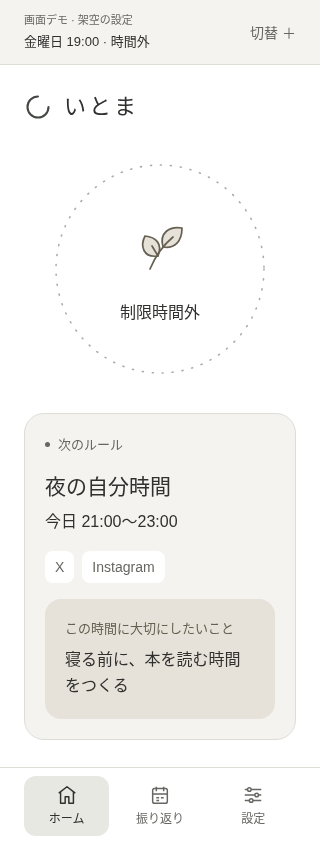
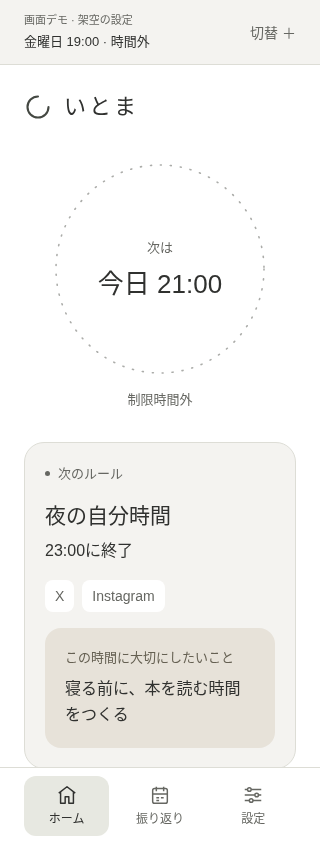
demo: show the next rule start inside the off-hours circle

diff --git a/demo/app/src/components/off-hours-circle.tsx b/demo/app/src/components/off-hours-circle.tsx
@@ -1,18 +1,24 @@
 import { useSyncExternalStore } from 'react';
 import { StyleSheet, Text, useWindowDimensions, View } from 'react-native';
-import Svg, { Circle, Path } from 'react-native-svg';
+import Svg, { Circle } from 'react-native-svg';
 import { useFlowTheme } from '@/components/flow/ui';
 
 const subscribe = () => () => {};
 const client = () => true;
 const server = () => false;
+type NextStart = { date: string; time: string };
 
-/** A static outline, never a progress fraction, loading spinner or time until next start. */
-export function OffHoursCircle() {
+/** A static outline with the next start, never progress or a countdown to that start. */
+export function OffHoursCircle({ next }: { next?: NextStart }) {
   const theme = useFlowTheme(), { fontScale, width } = useWindowDimensions();
   const hydrated = useSyncExternalStore(subscribe, client, server);
   const expanded = hydrated && fontScale > 1.5;
-  const label = <Text accessibilityRole="header" style={[styles.label, { color: theme.text }]}>制限時間外</Text>;
+  const copy = <View style={styles.copy}>
+    {next && <Text style={[styles.caption, { color: theme.muted }]}>次は</Text>}
+    <Text testID="next-start" accessibilityRole="header" style={[styles.time, next && next.date.length > 3 && styles.longDate, !next && styles.empty, { color: theme.text }]}>
+      {next ? `${next.date} ${next.time}` : '次の予定なし'}
+    </Text>
+  </View>;
   return <View testID="off-hours-circle" style={styles.group}>
     <View style={[styles.ring, hydrated && width <= 340 && styles.narrowRing]}>
       <View style={StyleSheet.absoluteFill} accessible={false} accessibilityElementsHidden importantForAccessibility="no-hide-descendants">
@@ -20,23 +26,18 @@ export function OffHoursCircle() {
           <Circle cx={112} cy={112} r={104} fill="none" stroke={theme.muted} strokeOpacity={0.55} strokeWidth={1.6} strokeDasharray="1 9" strokeLinecap="round" />
         </Svg>
       </View>
-      <View style={styles.center}>
-        <View testID="off-hours-motif" accessible={false} accessibilityElementsHidden importantForAccessibility="no-hide-descendants">
-          <Svg width={72} height={72} viewBox="0 0 72 72" aria-hidden fill="none" stroke={theme.purposeMotif} strokeWidth={1.7} strokeLinecap="round" strokeLinejoin="round">
-            <Path d="M34 42C19 44 16 32 21 22C32 23 39 30 34 42Z" fill={theme.purposeSurface} />
-            <Path d="M39 33C35 19 45 12 58 14C58 27 51 35 39 33Z" fill={theme.purposeSurface} />
-            <Path d="M26 55C31 43 37 33 49 23M28 32L34 42" />
-          </Svg>
-        </View>
-        {!expanded && label}
-      </View>
+      {!expanded && <View style={styles.center}>{copy}</View>}
     </View>
-    {expanded && label}
+    {expanded && copy}
+    <Text style={[styles.status, { color: theme.muted }]}>制限時間外</Text>
   </View>;
 }
 const styles = StyleSheet.create({
-  group: { alignItems: 'center', paddingVertical: 12, gap: 16 },
+  group: { alignItems: 'center', paddingVertical: 12, gap: 8 },
   ring: { width: 240, maxWidth: '100%', aspectRatio: 1 }, narrowRing: { width: 224 },
-  center: { position: 'absolute', inset: 24, alignItems: 'center', justifyContent: 'center', gap: 14 },
-  label: { fontSize: 16, lineHeight: 25, fontWeight: '400', textAlign: 'center', flexShrink: 1 },
+  center: { position: 'absolute', inset: 24, alignItems: 'center', justifyContent: 'center' },
+  copy: { alignItems: 'center', gap: 8, maxWidth: '100%' },
+  caption: { fontSize: 13, lineHeight: 21 }, status: { fontSize: 13, lineHeight: 21 },
+  time: { fontSize: 26, lineHeight: 36, fontWeight: '400', textAlign: 'center', fontVariant: ['tabular-nums'] },
+  longDate: { fontSize: 18, lineHeight: 28 }, empty: { fontSize: 20, lineHeight: 30 },
 });

diff --git a/demo/app/src/scenarios/home.ts b/demo/app/src/scenarios/home.ts
@@ -1,11 +1,11 @@
 /** Synthetic presentation fixtures, not a duplicate of the native schedule evaluator. */
 export const scenarios = [
-  { id: 'today', label: '今日の次の予定', clock: '金曜日 19:00', date: '今日', title: '夜の自分時間', time: '21:00〜23:00', apps: ['X', 'Instagram'], goal: '寝る前に、本を読む時間をつくる' },
-  { id: 'tomorrow', label: '翌日の予定', clock: '金曜日 23:30', date: '明日', title: '朝のひととき', time: '07:00〜08:00', apps: ['X', 'YouTube'], goal: '朝のコーヒーを、ゆっくり味わう' },
-  { id: 'next-week', label: '来週の予定', clock: '金曜日 23:30', date: '11月27日（金）', title: '夜の自分時間', time: '21:00〜23:00', apps: ['X', 'Instagram'], goal: '寝る前に、本を読む時間をつくる' },
-  { id: 'no-goal', label: '目標の登録なし', clock: '金曜日 19:00', date: '今日', title: '夜の自分時間', time: '21:00〜23:00', apps: ['X', 'Instagram'], goal: undefined },
-  { id: 'none', label: '次の予定なし', clock: '金曜日 23:30', date: undefined, title: undefined, time: undefined, apps: [], goal: undefined },
-  { id: 'active', label: '制限中と比較', clock: '金曜日 21:30', date: '今日', title: '夜の自分時間', time: '21:00〜23:00', apps: ['X', 'Instagram'], goal: '寝る前に、本を読む時間をつくる' },
+  { id: 'today', label: '今日の次の予定', clock: '金曜日 19:00', date: '今日', title: '夜の自分時間', startTime: '21:00', endTime: '23:00', apps: ['X', 'Instagram'], goal: '寝る前に、本を読む時間をつくる' },
+  { id: 'tomorrow', label: '翌日の予定', clock: '金曜日 23:30', date: '明日', title: '朝のひととき', startTime: '07:00', endTime: '08:00', apps: ['X', 'YouTube'], goal: '朝のコーヒーを、ゆっくり味わう' },
+  { id: 'next-week', label: '来週の予定', clock: '金曜日 23:30', date: '11月27日（金）', title: '夜の自分時間', startTime: '21:00', endTime: '23:00', apps: ['X', 'Instagram'], goal: '寝る前に、本を読む時間をつくる' },
+  { id: 'no-goal', label: '目標の登録なし', clock: '金曜日 19:00', date: '今日', title: '夜の自分時間', startTime: '21:00', endTime: '23:00', apps: ['X', 'Instagram'], goal: undefined },
+  { id: 'none', label: '次の予定なし', clock: '金曜日 23:30', date: undefined, title: undefined, startTime: undefined, endTime: undefined, apps: [], goal: undefined },
+  { id: 'active', label: '制限中と比較', clock: '金曜日 21:30', date: '今日', title: '夜の自分時間', startTime: '21:00', endTime: '23:00', apps: ['X', 'Instagram'], goal: '寝る前に、本を読む時間をつくる' },
 ] as const;
 export type ScenarioID = typeof scenarios[number]['id'];
 export const sampleNow = new Date(2026, 10, 20, 21, 30).getTime();

diff --git a/demo/app/src/components/home-preview.tsx b/demo/app/src/components/home-preview.tsx
@@ -25,17 +25,17 @@ export function HomePreview() {
         <View style={styles.appRow}><Body>X</Body><Body>Instagram</Body></View>
         <Text style={[styles.caption, { color: theme.muted }]}>制限中の表示比較です。解除操作は元のルール別デモで確認できます。</Text>
       </View> : <>
-        <OffHoursCircle />
+        <OffHoursCircle next={scenario.date && scenario.startTime ? { date: scenario.date, time: scenario.startTime } : undefined} />
         {scenario.title ? <View testID="next-rule" style={[styles.next, { backgroundColor: theme.background, borderColor: theme.line }]}>
           <View style={styles.nextLabel}><View style={[styles.dot, { backgroundColor: theme.muted }]} /><Text style={[styles.caption, { color: theme.muted }]}>次のルール</Text></View>
           <View style={{ gap: 6 }}><Text accessibilityRole="header" style={[styles.ruleTitle, { color: theme.text }]}>{scenario.title}</Text>
-            <Text style={[styles.ruleTime, { color: theme.text }]}>{scenario.date} {scenario.time}</Text></View>
+            <Text style={[styles.ruleTime, { color: theme.text }]}>{scenario.endTime}に終了</Text></View>
           <View style={styles.appRow}>{scenario.apps.map(name => <View key={name} style={[styles.app, { backgroundColor: theme.surface }]}>
             <Text style={{ color: theme.muted, fontSize: 14, lineHeight: 22 }}>{name}</Text>
           </View>)}</View>
           <RuleGoal goal={scenario.goal} />
         </View> : <View testID="no-next-rule" style={[styles.next, { backgroundColor: theme.background, borderColor: theme.line }]}>
-          <Heading>次の予定はありません</Heading><Body muted>設定したルールは、設定タブで確認できます。</Body>
+          <Heading>ルールの設定</Heading><Body muted>設定したルールは、設定タブで確認できます。</Body>
           <Button secondary label="ルールを確認する" onPress={() => router.navigate('/settings')} />
         </View>}
       </>}

diff --git a/demo/README.md b/demo/README.md
@@ -5,11 +5,11 @@
 ## 画面設計
 
 - 本人指定を優先し、時間外でもサークルを残す。直径240、円弧の線幅1.6、`1 9`の点線、muted色の55%。回転・点滅・次の開始までの進捗は加えない。
-- 中央は時間帯に依存しない葉の線画と、小さな「制限時間外」の1行だけ。説明の重複を外し、余白を主役にする。色や線画だけで意味を伝えない。点線は補助的な装飾であり、その低いコントラストに情報を依存しない。
-- 情報順はブランド→現在の状態→次のルール1つ。次のルールには日時・対象アプリ・本人の目標。今日の一覧、成果、キャラクター、未合意の手動開始は置かない。
+- 中央は「次は / 今日 21:00」の次回開始日時。翌日なら「明日 07:00」、予定なしなら「次の予定なし」。イラスト・その生成/選択機構は置かず、既存の予定を示す。円外の小さな「制限時間外」と点線で現在状態を区別する。点線は補助的な装飾であり、その低いコントラストに情報を依存しない。
+- 情報順はブランド→現在の状態→次のルール1つ。次のルールのカードには名前・終了時刻・対象アプリ・本人の目標を置く。開始日時は円内に集約し、カードに重ねない。今日の一覧、成果、キャラクター、未合意の手動開始は置かない。
 - 今日・明日・来週の次の予定を表示。これは日付解決ロジックの複製ではなく、native側が次区間を確定した後の表示を想定する固定fixture。翌日以降を出せない現デモの欠落を比較する。
 - 予定なしでもサークルを残し、ルールを確認する入口を置く。目標未登録時は引用面を省く。
-- 320px以下でも円は224で残す（通常240）。native文字倍率1.5超ではラベルを円外へ出す。重要情報を円内へ詰めない。
+- 320px以下でも円は224で残す（通常240）。native文字倍率1.5超では次回日時を円外へ出す。重要情報を円内へ詰めない。
 - 制限中との比較は本体のPeriodRingをそのまま使い、残り1時間30分・23時終了の実線リングを表示する。解除操作の比較は#231の既存デモで扱い、このデモには実行ボタンを偽装しない。
 - 設定・振り返りタブは戻れる範囲確認用の説明画面。このデモはそれらの製品UIの代替ではなく、保存・編集・集計を行わない。
 
